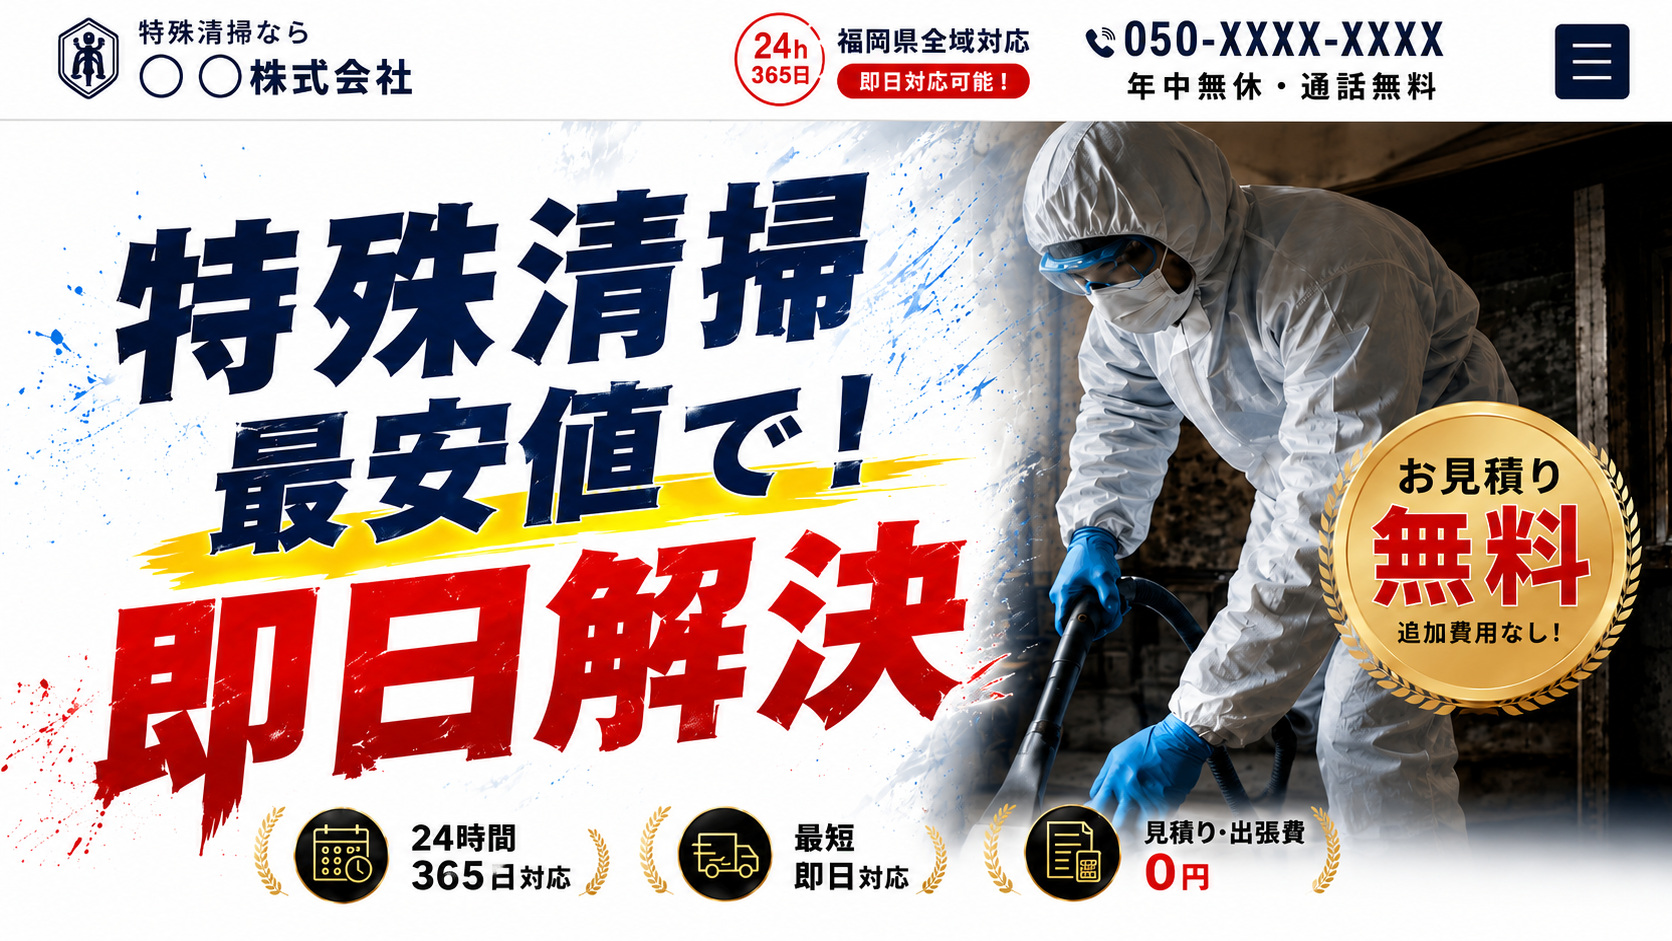
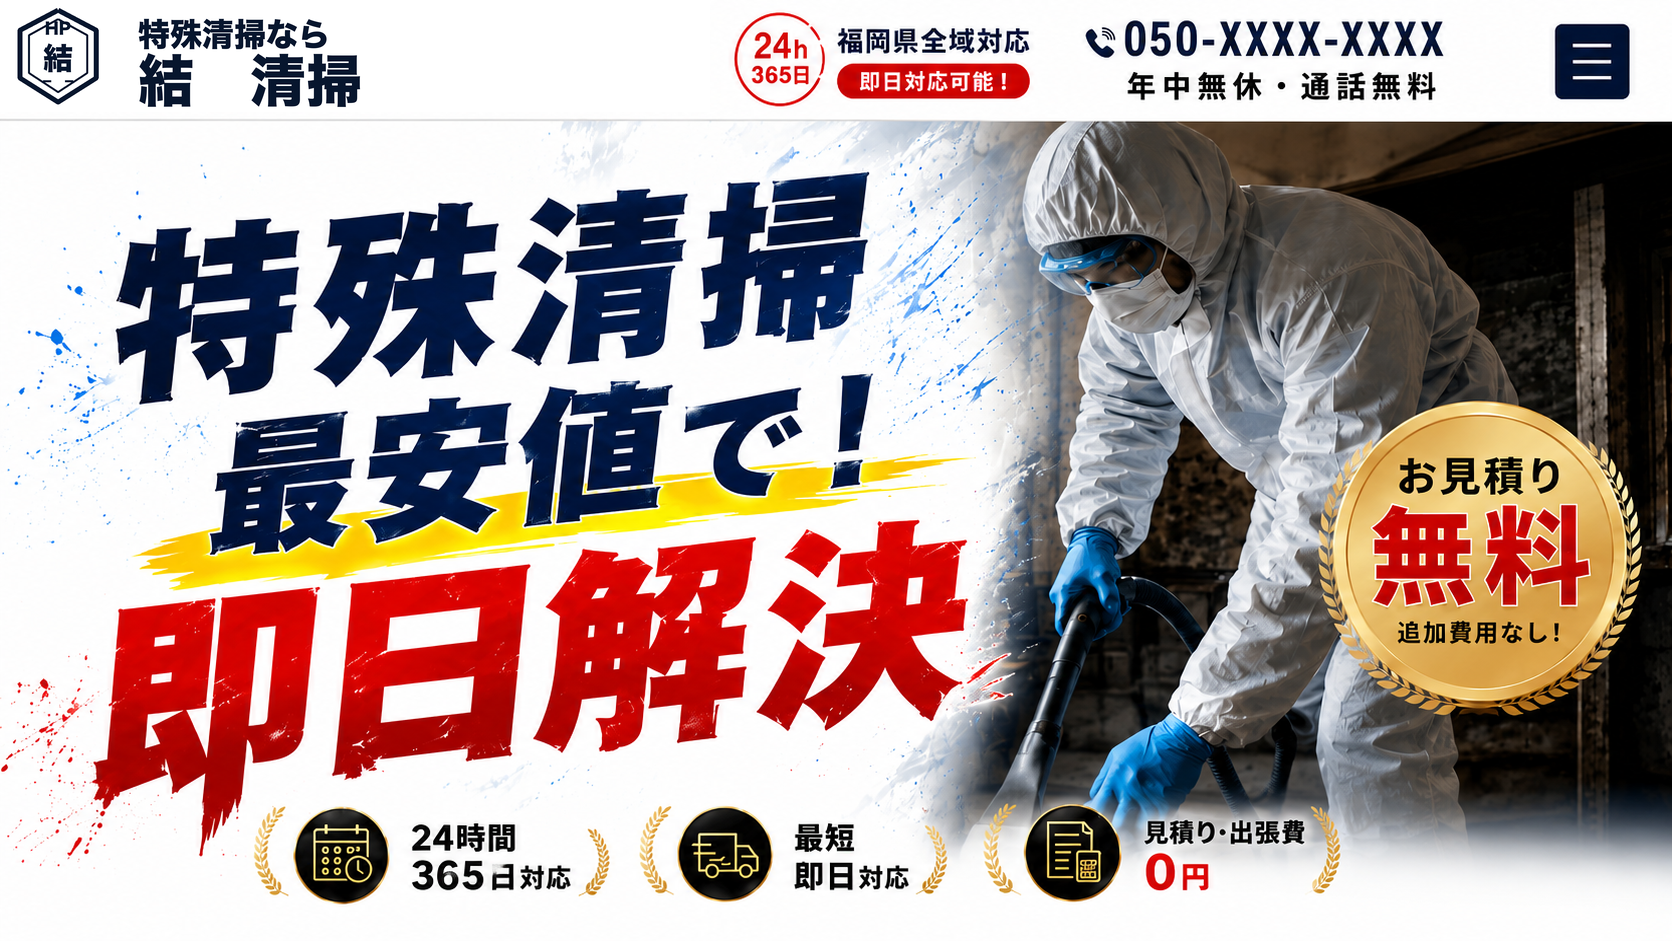
Deploy Yui Seiso hero brand

Changed region(s): [[0.0, 0.0, 0.2488, 0.1233]]

diff --git a/tokushu-clean-hp/index.html b/tokushu-clean-hp/index.html
@@ -3,11 +3,11 @@
   <head>
     <meta charset="utf-8">
     <meta name="viewport" content="width=device-width, initial-scale=1">
-    <title>特殊清掃なら○○株式会社｜24時間365日・最短即日対応</title>
+    <title>特殊清掃なら結　清掃｜24時間365日・最短即日対応</title>
     <meta name="description" content="孤独死・事故・事件現場の特殊清掃、消臭脱臭、害虫駆除、遺品整理、原状回復、火災・水害復旧まで福岡県全域で24時間365日対応。WEB見積りと電話相談を無料で受け付けています。">
     <meta name="format-detection" content="telephone=no">
     <meta property="og:type" content="website">
-    <meta property="og:title" content="特殊清掃なら○○株式会社">
+    <meta property="og:title" content="特殊清掃なら結　清掃">
     <meta property="og:description" content="特殊清掃、消臭脱臭、害虫駆除、遺品整理、原状回復まで最短即日対応。相談・出張・見積り0円。">
     <meta property="og:image" content="assets/firstview.png">
     <link rel="preload" as="image" href="assets/firstview.png" imagesrcset="assets/firstview.png 1672w" imagesizes="100vw">
@@ -16,9 +16,9 @@
   <body>
     <main>
       <section class="hero" id="top" aria-label="特殊清掃の無料相談">
-        <h1 class="sr-only">特殊清掃なら○○株式会社。特殊清掃を最安値で即日解決します。</h1>
+        <h1 class="sr-only">特殊清掃なら結　清掃。特殊清掃を最安値で即日解決します。</h1>
         <div class="hero__stage">
-          <img class="hero__image" src="assets/firstview.png" width="1672" height="941" alt="特殊清掃なら○○株式会社。福岡県全域対応、24時間365日、050-XXXX-XXXX。特殊清掃を最安値で即日解決。お見積り無料、追加費用なし。" fetchpriority="high" decoding="async">
+          <img class="hero__image" src="assets/firstview.png" width="1672" height="941" alt="特殊清掃なら結　清掃。福岡県全域対応、24時間365日、050-XXXX-XXXX。特殊清掃を最安値で即日解決。お見積り無料、追加費用なし。" fetchpriority="high" decoding="async">
           <a class="hero__hotspot hero__hotspot--phone" href="#phone" data-phone-link aria-label="今すぐ電話で相談する"></a>
         </div>
         <div class="hero__mobile-actions" aria-label="スマートフォン用問い合わせ">
@@ -333,7 +333,7 @@
 
     <footer class="site-footer">
       <div class="container">
-        <p><strong data-bind="companyName">○○株式会社</strong>｜特殊清掃・原状回復 福岡県全域対応</p>
+        <p><strong data-bind="companyName">結　清掃</strong>｜特殊清掃・原状回復 福岡県全域対応</p>
         <p data-bind="companyInfo">〒000-0000 ○○県○○市○○町0-0-0 / 代表者名・許認可情報は公開前に差し替え</p>
       </div>
     </footer>
@@ -347,7 +347,7 @@
       {
         "@context": "https://schema.org",
         "@type": "LocalBusiness",
-        "name": "○○株式会社",
+        "name": "結　清掃",
         "description": "特殊清掃、孤独死、事故・事件現場、原状回復、消臭脱臭、害虫駆除、遺品整理、火災・水害復旧に福岡県全域で対応します。",
         "telephone": "050-XXXX-XXXX",
         "areaServed": "福岡県全域",

diff --git a/tokushu-clean-hp/script.js b/tokushu-clean-hp/script.js
@@ -1,5 +1,5 @@
 const SITE_DATA = {
-  companyName: "○○株式会社",
+  companyName: "結　清掃",
   companyInfo: "〒000-0000 ○○県○○市○○町0-0-0 / 代表者名・許認可情報は公開前に差し替え",
   phone: "050-XXXX-XXXX",
   coverageLabel: "福岡県全域対応",